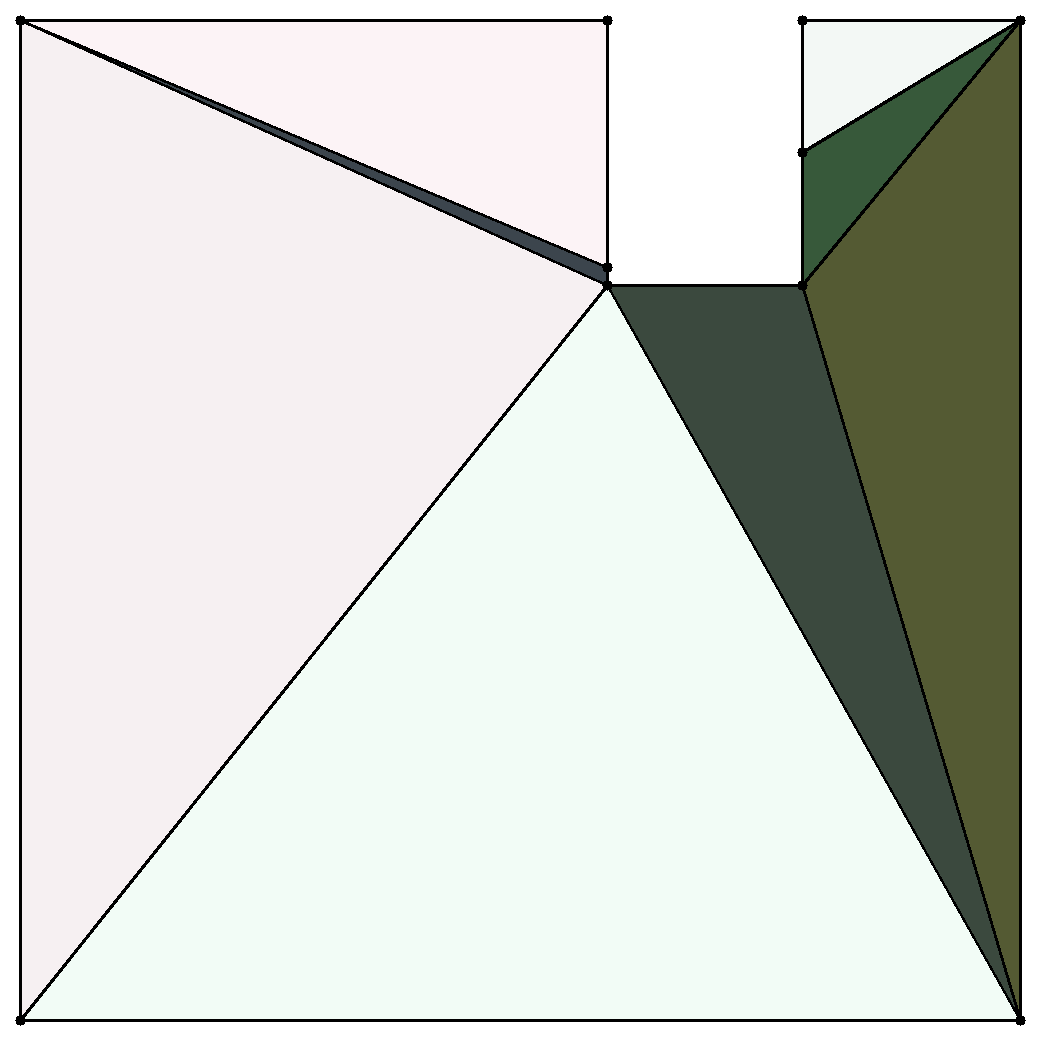
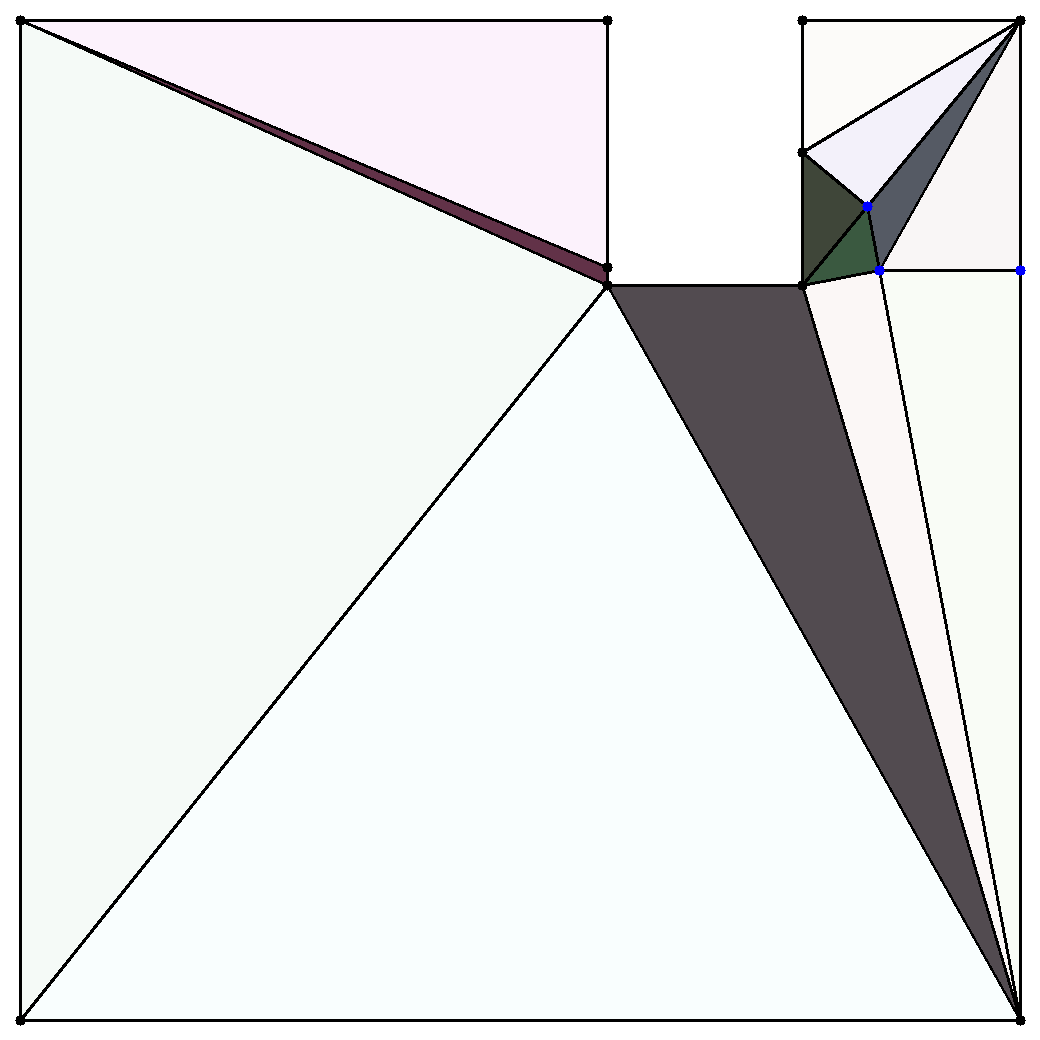
edit main_hwi.py

diff --git a/main_hwi.py b/main_hwi.py
@@ -74,6 +74,11 @@ def sqdist1(px, py, qx, qy):
 
 def findPathToBoundary(dt : Data):
 
+    # indicates the current iteration number
+    # 하나의 Steiner chain이 boundary에 도달해서, 새로운 obtuse triangle을 잡는 경우뿐만 아니라
+    # Steiner chain 매 step 끝날 때도 iterNum을 1씩 증가시킴 (WriteData 시 삼각형 위에 iterNum을 표시하기 위해)
+    iterNum = 0
+
     _, t = getAnyObtuseTriangle(dt)
     if t is None:
         print('No triangle selected')
@@ -144,13 +149,31 @@ def findPathToBoundary(dt : Data):
             newT1.neis[newT1.getOppositeNeiID(hV1tID)] = newT2
             newT2.neis[newT2.getOppositeNeiID(hV2tID)] = newT1
 
+            aHV_hV1_t = t.neis[t.getOppositeNeiID(hV2tID)] # aHV와 hV1를 잇는 직선을 t와 공유 (했던) triangle
+            for k in range(len(aHV_hV1_t.neis)):
+                if aHV_hV1_t.neis[k] == t:
+                    aHV_hV1_t.neis[k] = newT1
+
+            aHV_hV2_t = t.neis[t.getOppositeNeiID(hV1tID)] # aHV와 hV2를 잇는 직선을 t와 공유 (했던) triangle
+            for k in range(len(aHV_hV2_t.neis)):
+                if aHV_hV2_t.neis[k] == t:
+                    aHV_hV2_t.neis[k] = newT2
+
             # 최종적으로, triangles 삽입 및 삭제
 
-            tID = dt.getTriangleID(aHV, hV1, hV2)
-            del dt.triangles[tID]
+            t.setUnused()
+            # tID = dt.getTriangleID(aHV, hV1, hV2)
+            # del dt.triangles[tID]
 
-            dt.triangles.append(newT1)
-            dt.triangles.append(newT2)
+            dt.triangles.add(newT1)
+            dt.triangles.add(newT2)
+            # dt.triangles.append(newT1)
+            # dt.triangles.append(newT2)
+
+            iterNum += 1
+
+            # 중점 계산 (세 개의 수를 더해야 하니 두 번 통분이 이루어지고, 그래서 분모 분자 값이 너무 커지려나?)
+            dt.SteinerChainMark.append([iterNum])
 
             return
 
@@ -168,8 +191,8 @@ def findPathToBoundary(dt : Data):
 
             # pts 정보 수정
             
-            newT1.pts[hV2tID] = proj
-            newT2.pts[hV1tID] = proj
+            newT1.pts[hV2tID] = projID
+            newT2.pts[hV1tID] = projID
 
             hV1otID = oT.get_ind(hV1)
             hV2otID = oT.get_ind(hV2)
@@ -184,17 +207,26 @@ def findPathToBoundary(dt : Data):
             newT1.neis[newT1.getOppositeNeiID(hV1tID)] = newT2
             newT2.neis[newT2.getOppositeNeiID(hV2tID)] = newT1
 
-            newOT1.neis[newOT1.getOppositeNeiID(hV1otID)] = newOT2
-            newOT2.neis[newOT2.getOppositeNeiID(hV2otID)] = newOT1
-
             # newT1.neis[Triangle.getOppositeNeiID(hV1tID)] = newT2
             # newT2.neis[Triangle.getOppositeNeiID(hV2tID)] = newT1
+
+            newOT1.neis[newOT1.getOppositeNeiID(hV1otID)] = newOT2
+            newOT2.neis[newOT2.getOppositeNeiID(hV2otID)] = newOT1
 
             # newOT1.neis[Triangle.getOppositeNeiID(hV1otID)] = newOT2
             # newOT2.neis[Triangle.getOppositeNeiID(hV2otID)] = newOT1
 
-            print(hV1)
-            print(projID)
+            aHV_hV1_t = t.neis[t.getOppositeNeiID(hV2tID)] # aHV와 hV1를 잇는 직선을 t와 공유 (했던) triangle
+            if aHV_hV1_t is not None:
+                for k in range(len(aHV_hV1_t.neis)):
+                    if aHV_hV1_t.neis[k] == t:
+                        aHV_hV1_t.neis[k] = newT1
+
+            aHV_hV2_t = t.neis[t.getOppositeNeiID(hV1tID)] # aHV와 hV2를 잇는 직선을 t와 공유 (했던) triangle
+            if aHV_hV2_t is not None:
+                for k in range(len(aHV_hV2_t.neis)):
+                    if aHV_hV2_t.neis[k] == t:
+                        aHV_hV2_t.neis[k] = newT2
 
             newT1.neis[newT1.getNeiID(hV1, projID)] = newOT1
             newOT1.neis[newOT1.getNeiID(hV1, projID)] = newT1
@@ -206,28 +238,52 @@ def findPathToBoundary(dt : Data):
             # newT2.neis[newT2.getNeiID(dt.pts[hV2], dt.pts[projID])] = newOT2
             # newOT2.neis[newOT2.getNeiID(dt.pts[hV2], dt.pts[projID])] = newT2
 
+            hV1_third_oT = oT.neis[oT.getOppositeNeiID(hV2)]
+            if hV1_third_oT is not None:
+                for k in range(len(hV1_third_oT.neis)):
+                    if hV1_third_oT.neis[k] == oT:
+                        hV1_third_oT.neis[k] = newT1
+
+            hV2_third_oT = oT.neis[oT.getOppositeNeiID(hV1)]
+            if hV2_third_oT is not None:
+                for k in range(len(hV2_third_oT.neis)):
+                    if hV2_third_oT.neis[k] == oT:
+                        hV2_third_oT.neis[k] = newT2
+
             # 최종적으로, triangles 삽입 및 삭제
 
-            tID = dt.getTriangleID(aHV, hV1, hV2)
-            del dt.triangles[tID]
+            t.setUnused()
+            # tID = dt.getTriangleID(aHV, hV1, hV2)
+            # del dt.triangles[tID]
 
-            dt.triangles.append(newT1)
-            dt.triangles.append(newT2)
+            dt.triangles.add(newT1)
+            dt.triangles.add(newT2)
+            # dt.triangles.append(newT1)
+            # dt.triangles.append(newT2)
 
-            thirdVid = oT.getThirdVertexID(hV1, hV2)
-            otID = dt.getTriangleID(hV1, hV2, thirdVid)
-            # 이미 t를 지운 상태라고 해서, index가 밀려서 오류가 나지는 않음.
-            del dt.triangles[otID]
+            oT.setUnused()
+            #thirdVid = oT.getThirdVertexID(hV1, hV2)
+            #otID = dt.getTriangleID(hV1, hV2, thirdVid)
+                # 이미 t를 지운 상태라고 해서, index가 밀려서 오류가 나지는 않음.
+            #del dt.triangles[otID]
 
-            dt.triangles.append(newOT1)
-            dt.triangles.append(newOT2)
+            dt.triangles.add(newOT1)
+            dt.triangles.add(newOT2)
+            # dt.triangles.append(newOT1)
+            # dt.triangles.append(newOT2)
 
             # triangle 업데이트 (반복문 다음 step을 위해)
 
-            if newOT1.is_obtuse():
+            iterNum += 1
+
+            if dt.is_obtuse(newOT1):
                 t = newOT1
-            if newOT2.is_obtuse():
+            elif dt.is_obtuse(newOT2):
                 t = newOT2
+            # very unlikely, but both newOT1 and newOT2
+            else:
+                print('Both newOT1 and newOT2 are non-obtuse (they are right triangles). We are done.')
+                return
 
 def moveSteinerPoint(dt : Data, instanceName : str):
     
@@ -268,7 +324,8 @@ if __name__=="__main__":
         inp = argument[1]
 
     else:
-        inp = "challenge_instances_cgshop25_hwi/simple-polygon-exterior-20_40_65de7236.solution.json"
+        # inp = "challenge_instances_cgshop25_hwi/simple-polygon-exterior-20_40_65de7236.solution.json"
+        inp = "challenge_instances_cgshop25_hwi/ortho_10_d2723dcc.instance.json"
 
         # raise "error"
         # inp = "example_instances/cgshop2025_examples_ortho_10_ff68423e.instance.json"

diff --git a/data.py b/data.py
@@ -73,7 +73,14 @@ class Triangle:
 
         # neighboring triangles ?
         self.neis = [None, None, None]
-    
+
+        self.used = True
+
+        self.printFlag = None
+
+    #def setPrintFlag(self, s : str):
+    #    self.printFlag
+
     def get_ind(self, p:int):
         
         # print('get_ind start')
@@ -84,7 +91,10 @@ class Triangle:
                 return i
             
         return -1
-    
+
+    def setUnused(self):
+        self.used = False
+
     def pt(self, i:int):
         return self.pts[i % 3]
     
@@ -154,6 +164,10 @@ class Data:
     def __init__(self, input, pts=None, constraints=None, bds=None, fp_ind=None, triangles = None):
 
         self.ban = set() # ban이 무엇인가
+
+        # list of [x축좌표 : MyNum, y축좌표 : MyNum, iterNum]
+        # WriteData 시 scaling?
+        self.SteinerChainMark = []
 
         if input:
             self.input = input #
@@ -335,6 +349,9 @@ class Data:
         int_edges = []
 
         for t in self.triangles:
+            if t.used == False:
+                continue
+
             e1 = sorted([t.pts[0],t.pts[1]])
             e2 = sorted([t.pts[0],t.pts[2]])
             e3 = sorted([t.pts[1],t.pts[2]])
